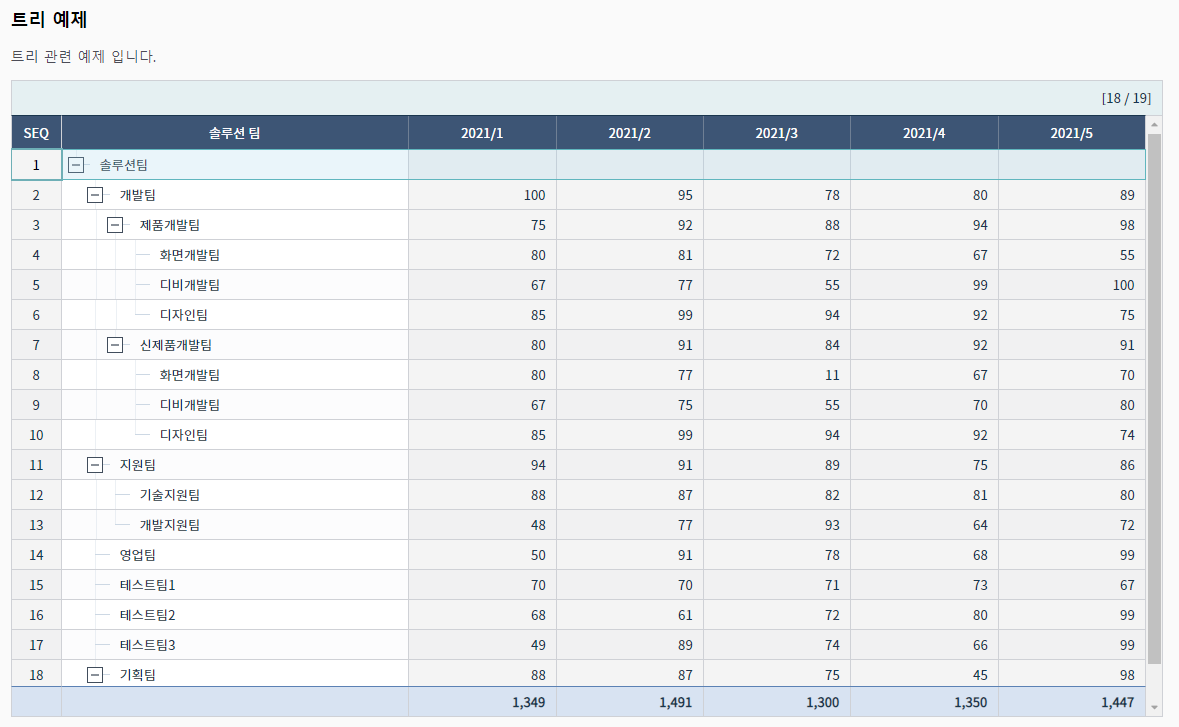
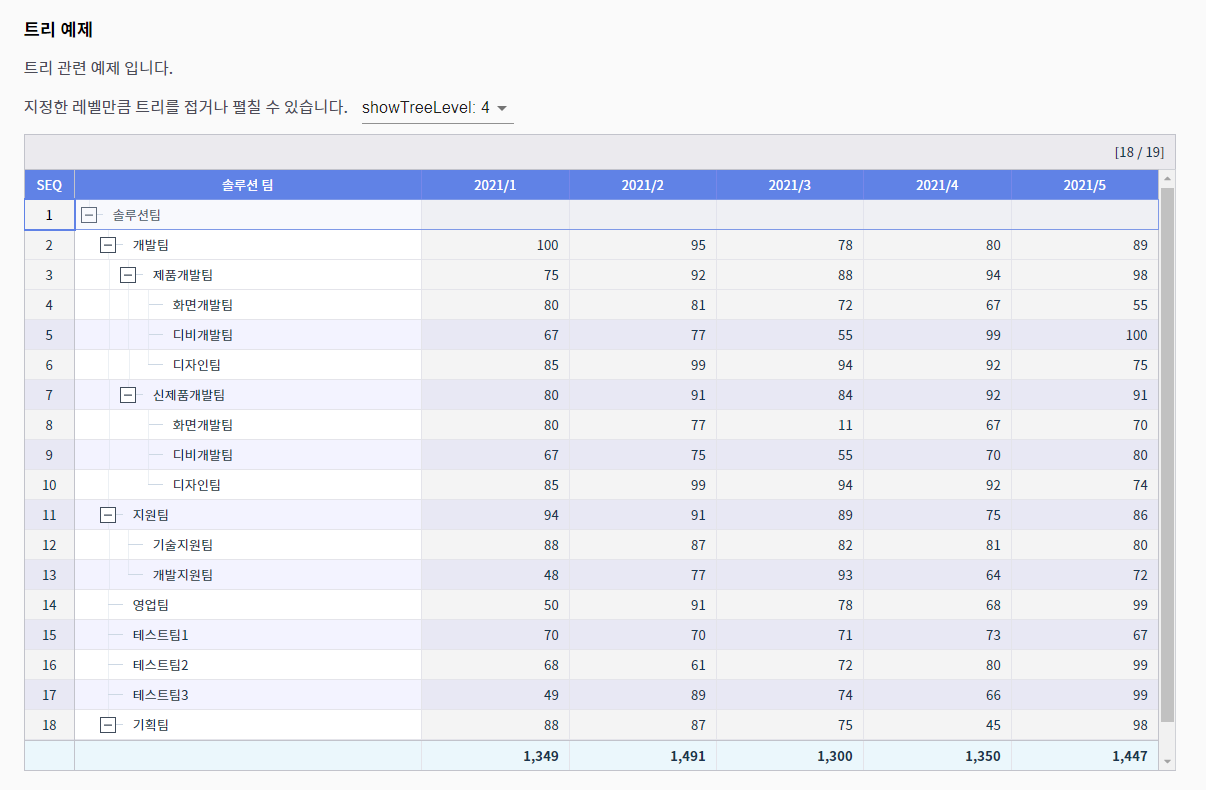
Update image, add Tree

diff --git a/samples/src/samples/Tree/function.js b/samples/src/samples/Tree/function.js
@@ -1,0 +1,62 @@
+import React, { useEffect, useState, useRef } from 'react';
+import { useSelector } from 'react-redux';
+import { Select, MenuItem } from '@material-ui/core';
+import { makeStyles } from '@material-ui/core/styles';
+
+const Function = () => {
+  const ibsheet = useSelector(state => state.sheet);
+  const sheet = ibsheet[0];
+  const [level, setLevel] = useState(4);
+  const mounted = useRef(false);
+
+  useEffect(() => {
+    if (!mounted.current) {
+      mounted.current = true;
+    } else {
+      sheet.showTreeLevel(level);
+    }
+  }, [level, sheet]);
+
+  const changeHandler = (e) => {
+    setLevel(e.target.value);
+  };
+
+  const useStyles = makeStyles((props) => ({
+    divStyle: {
+      paddingBottom: '10px'
+    },
+    spanStyle: {
+      color: '#4c4c57',
+      fontSize: '1rem',
+      marginRight: '14px'
+    },
+    btnStyle: {
+      height: '30px',
+      background: '#4c4c57',
+      color: '#fff',
+      marginRight: '10px'
+    }
+  }));
+
+  const classes = useStyles();
+
+  return (
+    <div className={ classes.divStyle }>
+      <span className={ classes.spanStyle }>지정한 레벨만큼 트리를 접거나 펼칠 수 있습니다.</span>
+      <Select
+        labelId='show-tree-level-label'
+        id='show-tree-level'
+        name='showTreeLevel'
+        value={ level }
+        onChange={ changeHandler }
+      >
+        <MenuItem value={ 1 }>showTreeLevel: 1</MenuItem>
+        <MenuItem value={ 2 }>showTreeLevel: 2</MenuItem>
+        <MenuItem value={ 3 }>showTreeLevel: 3</MenuItem>
+        <MenuItem value={ 4 }>showTreeLevel: 4</MenuItem>
+      </Select>
+    </div>
+  );
+};
+
+export default Function;

diff --git a/samples/src/components/Content.js b/samples/src/components/Content.js
@@ -1,5 +1,5 @@
 /* eslint-disable */
-import React, { useRef, useState } from 'react';
+import React, { useState } from 'react';
 import Container from '@material-ui/core/Container';
 import { makeStyles } from '@material-ui/core/styles';
 import IBSheet8 from 'components/SheetCreate';
@@ -13,6 +13,7 @@ import MergeFunction from 'samples/Merge/function';
 import LoadFunction from 'samples/DataLoad/function';
 import SubSumFunction from 'samples/SubSum/function';
 import MultiFunction from 'samples/Multi/function';
+import TreeFunction from 'samples/Tree/function';
 import FormDiv from 'samples/Form/component';
 import { useSelector } from 'react-redux';
 import TabCopy from 'components/SheetTabCopy'
@@ -84,6 +85,7 @@ const Content = () => {
                   </p>
                     {
                       (name === 'Merge' && <MergeFunction />) ||
+                      (name === 'Tree' && <TreeFunction />) ||
                       (name === 'DataLoad' && <LoadFunction />) ||
                       (name === 'SubSum' && <SubSumFunction />) ||
                       (name === 'Multi' && <MultiFunction />) ||

diff --git a/samples/src/samples/Multi/index.js b/samples/src/samples/Multi/index.js
@@ -58,7 +58,8 @@ const Multi = () => {
   const sheetOptions2 = {
     Cfg: {
       SearchMode: 0,
-      CustomScroll: 1
+      CustomScroll: 1,
+      Style: 'IBMR'
     },
     LeftCols: [
       {
@@ -101,7 +102,8 @@ const Multi = () => {
   const sheetOptions3 = {
     Cfg: {
       SearchMode: 0,
-      CustomScroll: 1
+      CustomScroll: 1,
+      Style: 'IBMR'
     },
     LeftCols: [
       {

diff --git a/samples/src/samples/Dialog/dialogOption.js b/samples/src/samples/Dialog/dialogOption.js
@@ -4,7 +4,8 @@ const dialogOptions = {
   options: {
     Cfg: {
       SearchMode: 0,
-      CustomScroll: 1
+      CustomScroll: 1,
+      Style: 'IBMR'
     },
     LeftCols: [
       {
@@ -47,6 +48,6 @@ const dialogOptions = {
       }
     ]
   }
-}; 
+};
 
 export default dialogOptions;

diff --git a/samples/src/samples/Tree/index.js b/samples/src/samples/Tree/index.js
@@ -1,6 +1,6 @@
 /* eslint-disable */
 // 기본 옵션.
-import React, { useState, useEffect } from 'react';
+import React, { useEffect } from 'react';
 import Content from 'components/Content';
 import { treeData as data } from 'data/samplesData';
 import { useDispatch } from 'react-redux';
